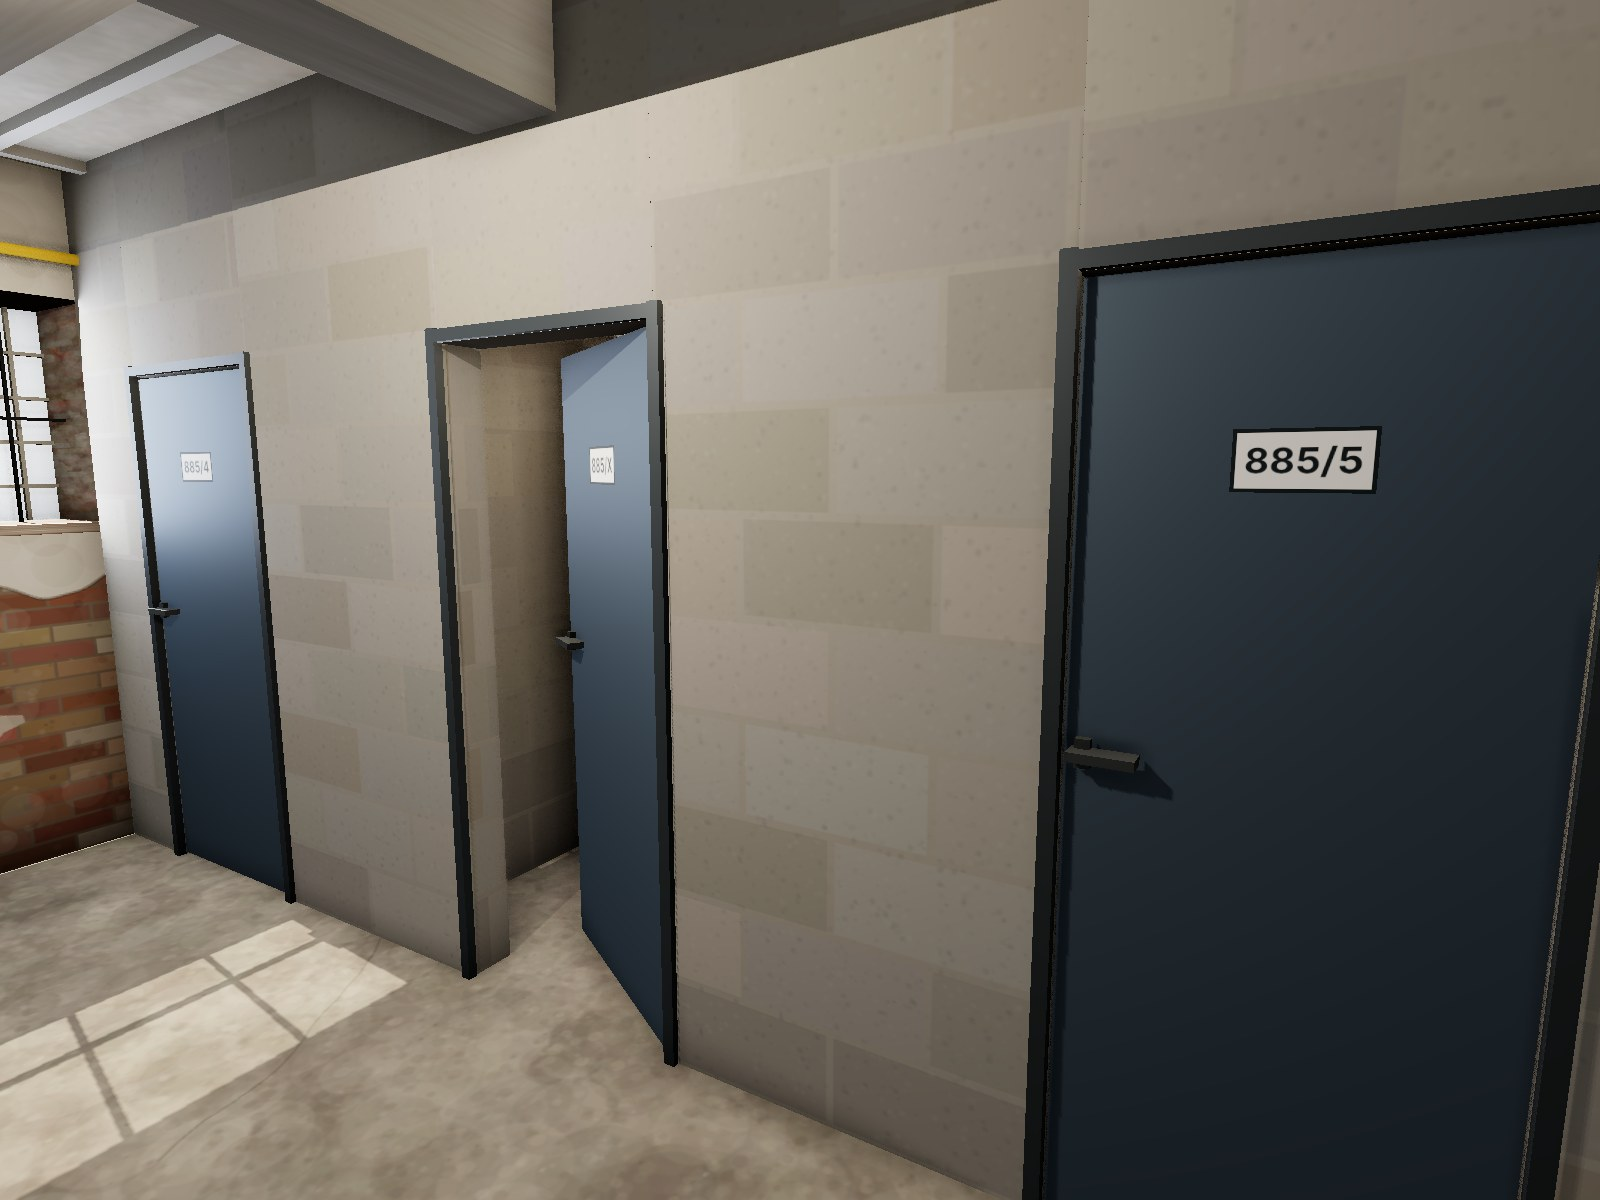
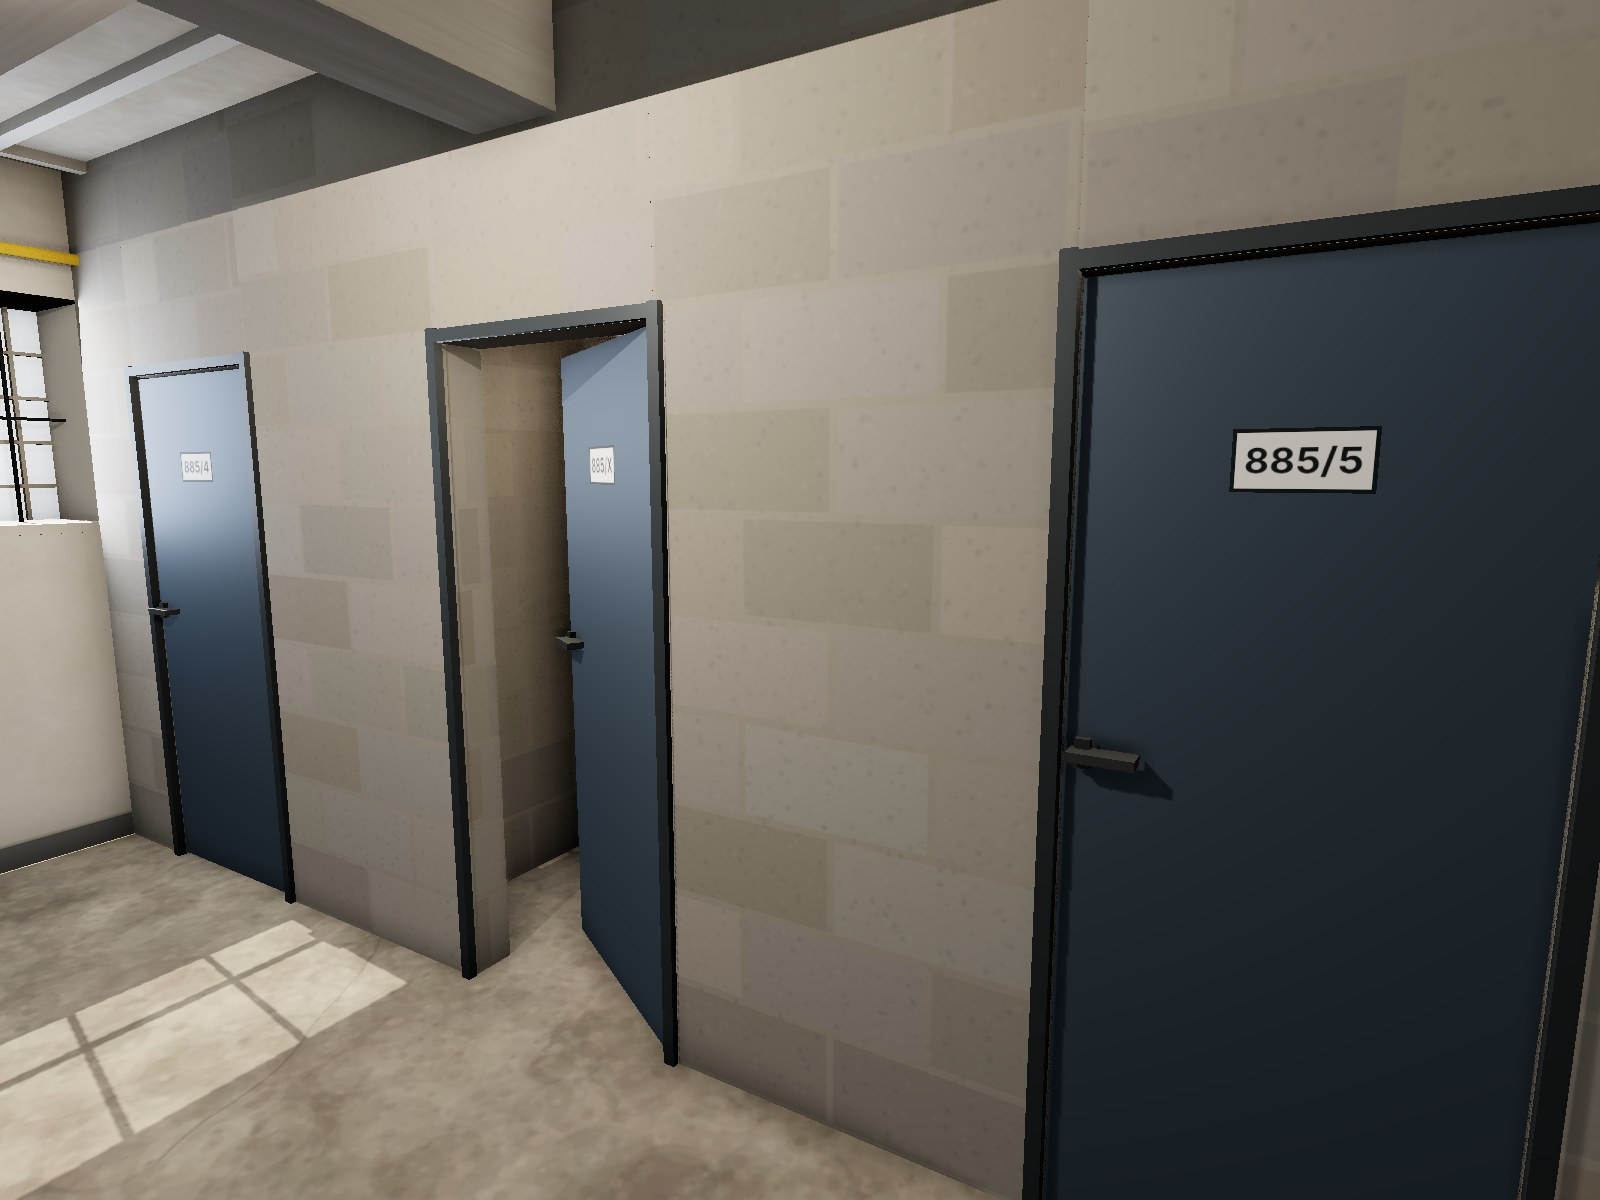
3D B2: water pipe cover instead of doorway, repaired plaster walls
Claude-Session: https://claude.ai/code/session_01PwTnPep7yYfhi5YvdxRW3v

Changed region(s): [[0.0, 0.2467, 0.0938, 0.74]]

diff --git a/vizualizace3d-b2.html b/vizualizace3d-b2.html
@@ -94,55 +94,18 @@
             ctx.globalAlpha = 1;
         }
 
-        // Stará omítka s odprýsknutým spodním pásem a viditelnými cihlami
-        function wallTexture(lenM, seed, baseH = 1.15) {
-            const PX = 220, w = Math.round(lenM * PX), h = Math.round(H * PX);
+        // Opravená omítka: nová vápenocementová omítka s bílým nátěrem a šedým soklem
+        function wallTexture(lenM, seed) {
+            const PX = 160, w = Math.round(lenM * PX), h = Math.round(H * PX);
             const c = document.createElement('canvas'); c.width = w; c.height = h;
             const ctx = c.getContext('2d'); const r = rng(seed);
-            // zdivo: cihly a kamení
-            ctx.fillStyle = '#8c7b6a'; ctx.fillRect(0, 0, w, h);
-            const bw = 0.29 * PX, bh = 0.075 * PX, jt = 0.012 * PX;
-            for (let row = 0, y = h; y > 0; row++, y -= bh) {
-                for (let x = -(row % 2) * bw / 2; x < w; x += bw) {
-                    const tone = r();
-                    const col = tone < 0.55 ? `hsl(${10 + r() * 14}, ${22 + r() * 18}%, ${40 + r() * 14}%)`
-                        : tone < 0.85 ? `hsl(${25 + r() * 15}, ${15 + r() * 15}%, ${45 + r() * 15}%)`
-                            : `hsl(${30 + r() * 10}, ${8 + r() * 8}%, ${60 + r() * 12}%)`;
-                    ctx.fillStyle = col;
-                    ctx.fillRect(x + jt / 2, y - bh + jt / 2, bw - jt, bh - jt);
-                }
-            }
-            speckle(ctx, w, h, r, 2500, ['#5d4037', '#d7ccc8', '#3e2723'], 3);
-            // omítka nad nepravidelnou hranou
-            const edge = wave(r, 6);
-            const top = x => (baseH + 0.16 * edge(x / PX * 1.3) + 0.04 * edge(x / PX * 5)) * PX;
-            ctx.fillStyle = '#e8e4dc';
-            ctx.beginPath(); ctx.moveTo(0, 0);
-            for (let x = 0; x <= w; x += 4) ctx.lineTo(x, h - top(x));
-            ctx.lineTo(w, 0); ctx.closePath(); ctx.fill();
-            // zbytky omítky ve spodní části
-            for (let i = 0; i < lenM * 5; i++) {
-                const px = r() * w, py = h - r() * baseH * PX * 0.9, rad = (0.05 + r() * 0.18) * PX;
-                ctx.fillStyle = r() < 0.5 ? '#cfc6b8' : '#b9ad9c';
-                ctx.globalAlpha = 0.85;
-                ctx.beginPath();
-                for (let a = 0; a < 6.3; a += 0.4) {
-                    const rr = rad * (0.6 + r() * 0.6);
-                    ctx.lineTo(px + Math.cos(a) * rr, py + Math.sin(a) * rr * 0.7);
-                }
-                ctx.fill();
-            }
-            ctx.globalAlpha = 1;
-            // stín na hraně omítky
-            ctx.strokeStyle = 'rgba(90, 80, 70, 0.35)'; ctx.lineWidth = 3;
-            ctx.beginPath();
-            for (let x = 0; x <= w; x += 4) ctx.lineTo(x, h - top(x));
-            ctx.stroke();
-            // šmouhy a vlhkost
-            speckle(ctx, w, h, r, 900, ['#bdb5a8', '#a19a8f', '#ffffff'], 18);
-            const g = ctx.createLinearGradient(0, h, 0, h - 0.35 * PX);
-            g.addColorStop(0, 'rgba(60, 50, 40, 0.35)'); g.addColorStop(1, 'rgba(60, 50, 40, 0)');
-            ctx.fillStyle = g; ctx.fillRect(0, h - 0.35 * PX, w, 0.35 * PX);
+            ctx.fillStyle = '#efede8'; ctx.fillRect(0, 0, w, h);
+            speckle(ctx, w, h, r, Math.round(lenM * 120), ['#e2dfd8', '#f8f7f3', '#dcd8cf'], 26);
+            speckle(ctx, w, h, r, Math.round(lenM * 1600), ['#d8d4cb', '#ffffff'], 1.4);
+            // sokl 10 cm
+            const sh = 0.10 * PX;
+            ctx.fillStyle = '#8f9295'; ctx.fillRect(0, h - sh, w, sh);
+            ctx.fillStyle = 'rgba(0, 0, 0, 0.12)'; ctx.fillRect(0, h - sh - 1.5, w, 1.5);
             return canvasTex(c);
         }
 
@@ -245,8 +208,8 @@
         // jižní (okna), díváme se na ni od vstupu
         const south = shapeWall(W, WIN.map(o => ({ x0: W - o.cx - o.w / 2, x1: W - o.cx + o.w / 2, y0: o.y0, y1: o.y1 })), wallTexture(W, 3));
         south.position.set(W, 0, D - 0.004); south.rotation.y = Math.PI; south.receiveShadow = true; scene.add(south);
-        // východní (výsep V0) s otvorem v ocelové zárubni
-        const east = shapeWall(D, [{ x0: D - 2.15, x1: D - 1.25, y0: 0, y1: 2.0 }], wallTexture(D, 5));
+        // východní stěna (bez otvoru)
+        const east = shapeWall(D, [], wallTexture(D, 5));
         east.position.set(W - 0.004, 0, 0); east.rotation.y = -Math.PI / 2; east.receiveShadow = true; scene.add(east);
         east.userData.cutaway = true;
         // západní (za kójemi) a severní (vstup z chodby C1)
@@ -262,14 +225,11 @@
         add(box(W + 2 * T, H, T), massMat, W / 2, H / 2, -T / 2).userData.cutaway = true;
         add(box(T, H, D + 2 * T), massMat, -T / 2, H / 2, D / 2);
         // východní zeď s otvorem
-        add(box(T, H, D - 2.15 + T), massMat, W + T / 2, H / 2, (D - 2.15) / 2 - T / 2).userData.cutaway = true;
-        add(box(T, H, 1.25 + T), massMat, W + T / 2, H / 2, D - 1.25 / 2 + T / 2).userData.cutaway = true;
-        add(box(T, H - 2.0, 0.9), massMat, W + T / 2, 2.0 + (H - 2.0) / 2, D - 1.7).userData.cutaway = true;
+        add(box(T, H, D + 2 * T), massMat, W + T / 2, H / 2, D / 2).userData.cutaway = true;
         // jižní zeď s okenními otvory
         const sx = [0, ...WIN.slice().sort((a, b) => a.cx - b.cx).flatMap(o => [o.cx - o.w / 2, o.cx + o.w / 2]), W];
         for (let i = 0; i < sx.length; i += 2) add(box(sx[i + 1] - sx[i] + (i === 0 || i === sx.length - 2 ? T : 0), H, T), massMat, (sx[i] + sx[i + 1]) / 2 + (i === 0 ? -T / 2 : i === sx.length - 2 ? T / 2 : 0), H / 2, D + T / 2);
-        const revealTex = wallTexture(0.6, 21, 3.0); revealTex.repeat.set(1, 1);
-        const revealMat = std({ map: revealTex, bumpMap: revealTex, bumpScale: 0.5 });
+        const revealMat = std({ color: '#ece9e3' });
         WIN.forEach(o => {
             add(box(o.w, o.y0, T), massMat, o.cx, o.y0 / 2, D + T / 2);
             add(box(o.w, H - o.y1, T), massMat, o.cx, o.y1 + (H - o.y1) / 2, D + T / 2);
@@ -391,10 +351,12 @@
         });
         const pir = add(new THREE.SphereGeometry(0.05, 18, 10, 0, Math.PI * 2, 0, Math.PI / 2), pvc, 4.45, H - 0.05, 0.35); pir.rotation.x = Math.PI; pir.userData.cutaway = true;
 
-        // Ocelová zárubeň do výsepu V0 na východní stěně
-        [add(box(0.05, 2.05, 0.05), frameMat, W - 0.03, 1.02, D - 2.15),
-         add(box(0.05, 2.05, 0.05), frameMat, W - 0.03, 1.02, D - 1.25),
-         add(box(0.05, 0.05, 0.95), frameMat, W - 0.03, 2.03, D - 1.7)].forEach(m => { m.userData.cutaway = true; });
+        // Přívod vody na východní stěně: svislé potrubí zakryté plechovým krytem, vodorovně pod stropem
+        const coverMat = std({ color: '#d9dcdc', metalness: 0.3, roughness: 0.5 });
+        const waterCover = add(box(0.12, H - 0.25, 0.2), coverMat, W - 0.06, (H - 0.25) / 2, 3.2);
+        const waterPipe = add(new THREE.CylinderGeometry(0.025, 0.025, 3.2, 14), pvc, W - 0.07, H - 0.18, 1.6);
+        waterPipe.rotation.x = Math.PI / 2;
+        waterCover.userData.cutaway = waterPipe.userData.cutaway = true;
 
         // ---------- Osvětlení ----------
         scene.add(new THREE.HemisphereLight('#f3f1ec', '#6b6052', 0.9));
